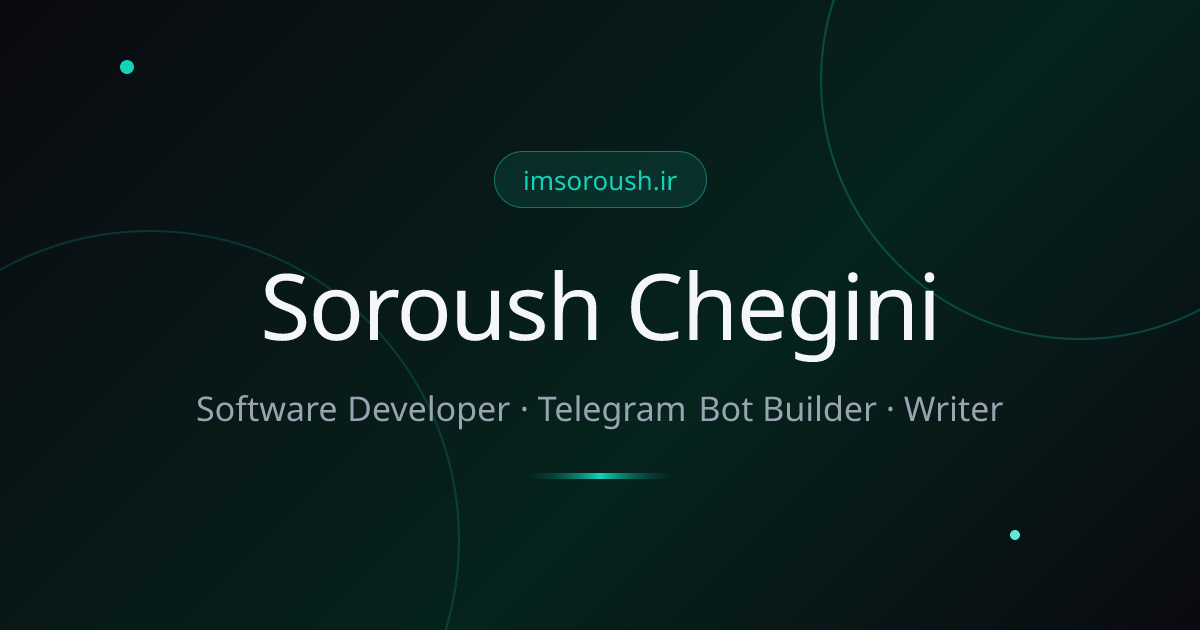
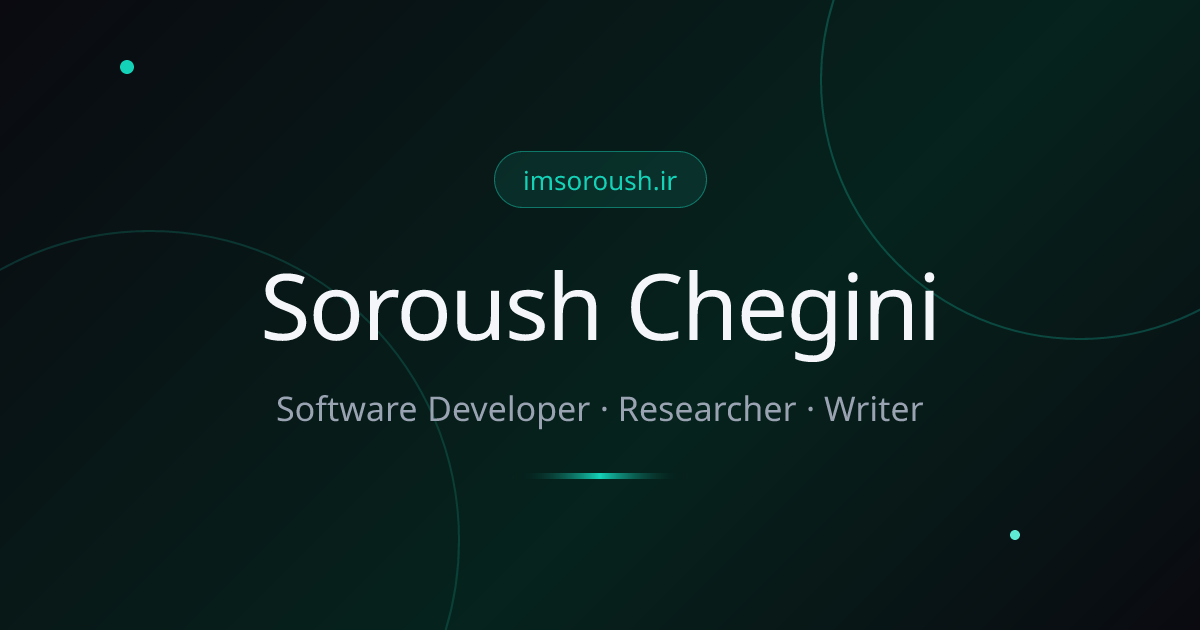
feat(identity): Researcher role replaces bot-maker; static OG image
- hero typewriter (FA/EN), meta descriptions, PWA manifest: researcher
- OG card now a static 1200x630 PNG (was on-demand satori render that
  took ~1.6s per request on Cloudflare and caused camo 502s)
- /opengraph-image kept alive via 308 redirect to the static file
- profile banner (.github/assets/og-banner.png) regenerated to match

Changed region(s): [[0.1542, 0.6333, 0.8325, 0.6937]]

diff --git a/src/app/layout.tsx b/src/app/layout.tsx
@@ -10,7 +10,7 @@ const SITE_URL = "https://imsoroush.ir";
 // SEO metadata carries the full name in both languages up front.
 const TITLE = "Soroush Chegini | سروش چگینی — Software Developer & Writer";
 const DESCRIPTION =
-  "Soroush Chegini (سروش چگینی) — software developer, Telegram bot maker, 3D experience builder and writer. Projects, articles and open-source work.";
+  "Soroush Chegini (سروش چگینی) — software developer, researcher, 3D experience builder and writer. Projects, articles and open-source work.";
 
 const jsonLd = {
   "@context": "https://schema.org",
@@ -24,7 +24,7 @@ const jsonLd = {
       image: `${SITE_URL}/photos/logo_dark.png`,
       jobTitle: "Software Developer & Writer",
       description:
-        "Software developer, Telegram bot maker, 3D enthusiast and writer.",
+        "Software developer, researcher, 3D enthusiast and writer.",
       sameAs: [GITHUB_PROFILE_URL],
       knowsLanguage: ["fa", "en"],
       knowsAbout: [
@@ -97,8 +97,8 @@ export const metadata: Metadata = {
     type: "website",
     locale: "en_US",
     alternateLocale: ["fa_IR"],
-    // NOTE: og:image is provided by the src/app/opengraph-image.tsx file
-    // convention (dynamic 1200×630 card) — do not duplicate it here.
+    // NOTE: og:image is provided by the static src/app/opengraph-image.png
+    // file convention (1200×630 card) — do not duplicate it here.
   },
   twitter: {
     card: "summary_large_image",

diff --git a/src/lib/i18n/dicts/core.ts b/src/lib/i18n/dicts/core.ts
@@ -22,7 +22,7 @@ export const coreDict: Dict = {
     "hero.name.first": "سروش",
     "hero.name.last": "چگینی",
     "hero.role.0": "توسعهدهنده نرمافزار",
-    "hero.role.1": "سازنده رباتهای تلگرام",
+    "hero.role.1": "پژوهشگر",
     "hero.role.2": "خالق تجربههای سهبعدی",
     "hero.role.3": "نویسنده و کاوشگر",
     "hero.desc":
@@ -113,7 +113,7 @@ export const coreDict: Dict = {
     "hero.name.first": "Soroush",
     "hero.name.last": "Chegini",
     "hero.role.0": "Software Developer",
-    "hero.role.1": "Telegram Bot Builder",
+    "hero.role.1": "Researcher",
     "hero.role.2": "Creator of 3D Experiences",
     "hero.role.3": "Writer & Explorer",
     "hero.desc":

diff --git a/src/app/manifest.ts b/src/app/manifest.ts
@@ -5,7 +5,7 @@ export default function manifest(): MetadataRoute.Manifest {
     name: "سروش چگینی | Soroush Chegini",
     short_name: "سروش",
     description:
-      "پورتفولیو شخصی سروش چگینی: توسعهدهنده نرمافزار، سازنده رباتهای تلگرام و نویسنده.",
+      "پورتفولیو شخصی سروش چگینی: توسعهدهنده نرمافزار، پژوهشگر و نویسنده.",
     start_url: "/",
     id: "/",
     scope: "/",

diff --git a/src/app/opengraph-image/route.ts b/src/app/opengraph-image/route.ts
@@ -1,0 +1,10 @@
+import { NextResponse } from "next/server";
+
+// Legacy URL — the OG image used to be rendered on-demand by
+// src/app/opengraph-image.tsx (slow on Cloudflare, caused camo 502s).
+// It is now a static file: src/app/opengraph-image.png. Keep this
+// redirect so old shared links keep working.
+export function GET(request: Request) {
+  const url = new URL("/opengraph-image.png", request.url);
+  return NextResponse.redirect(url, 308);
+}
